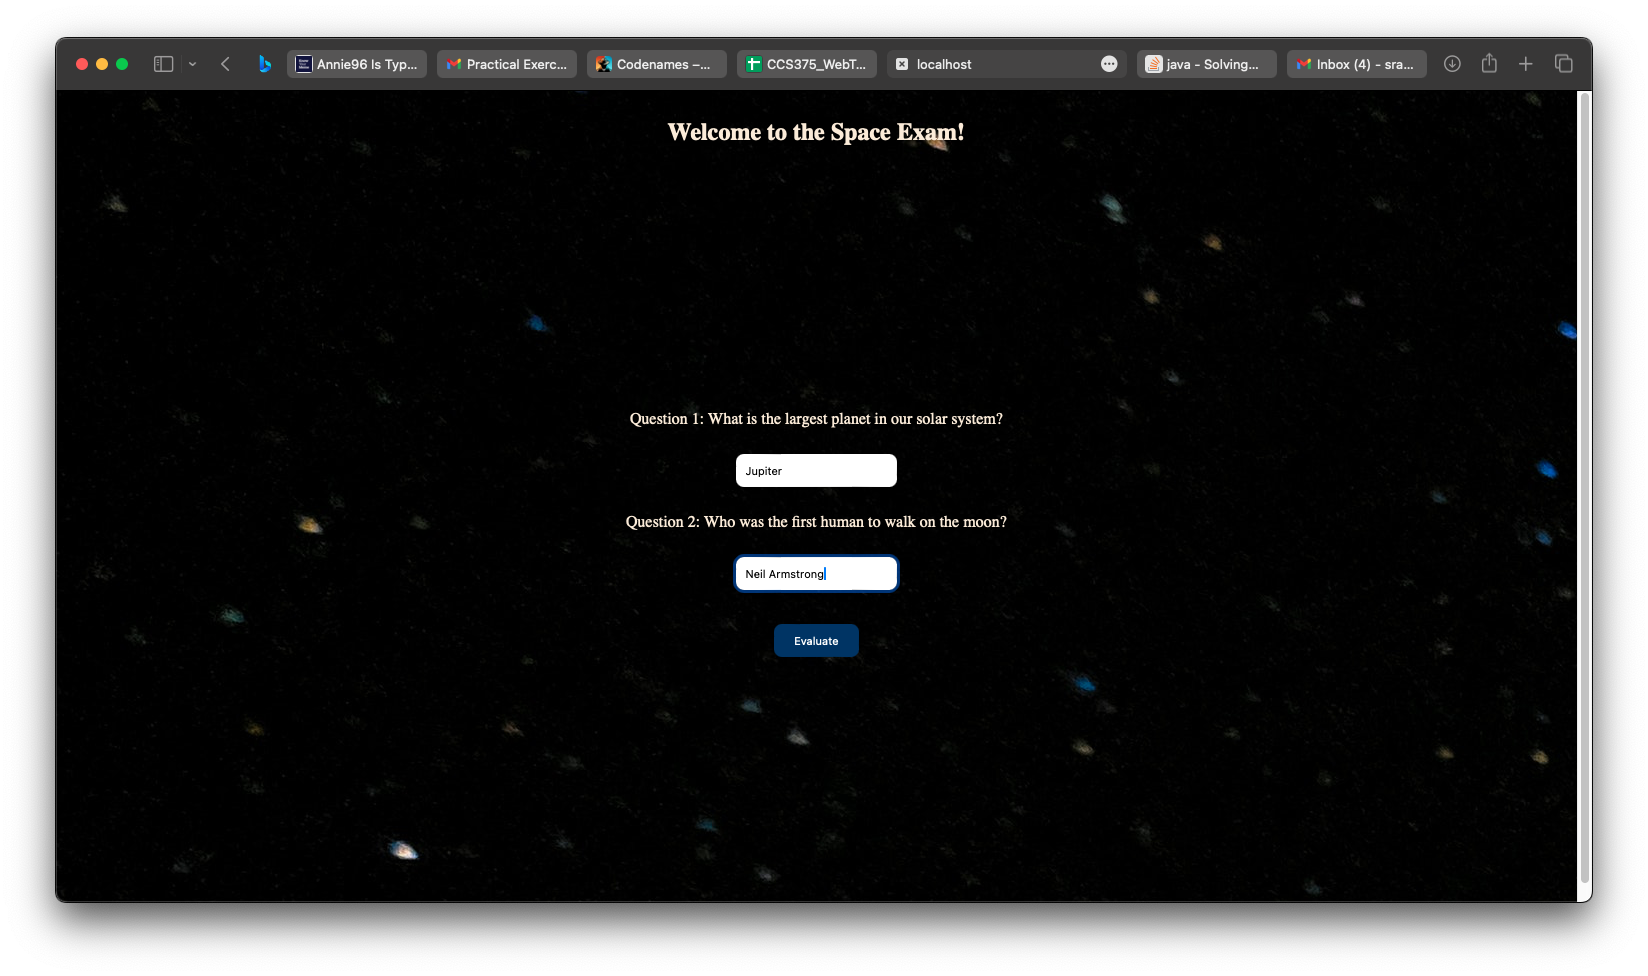
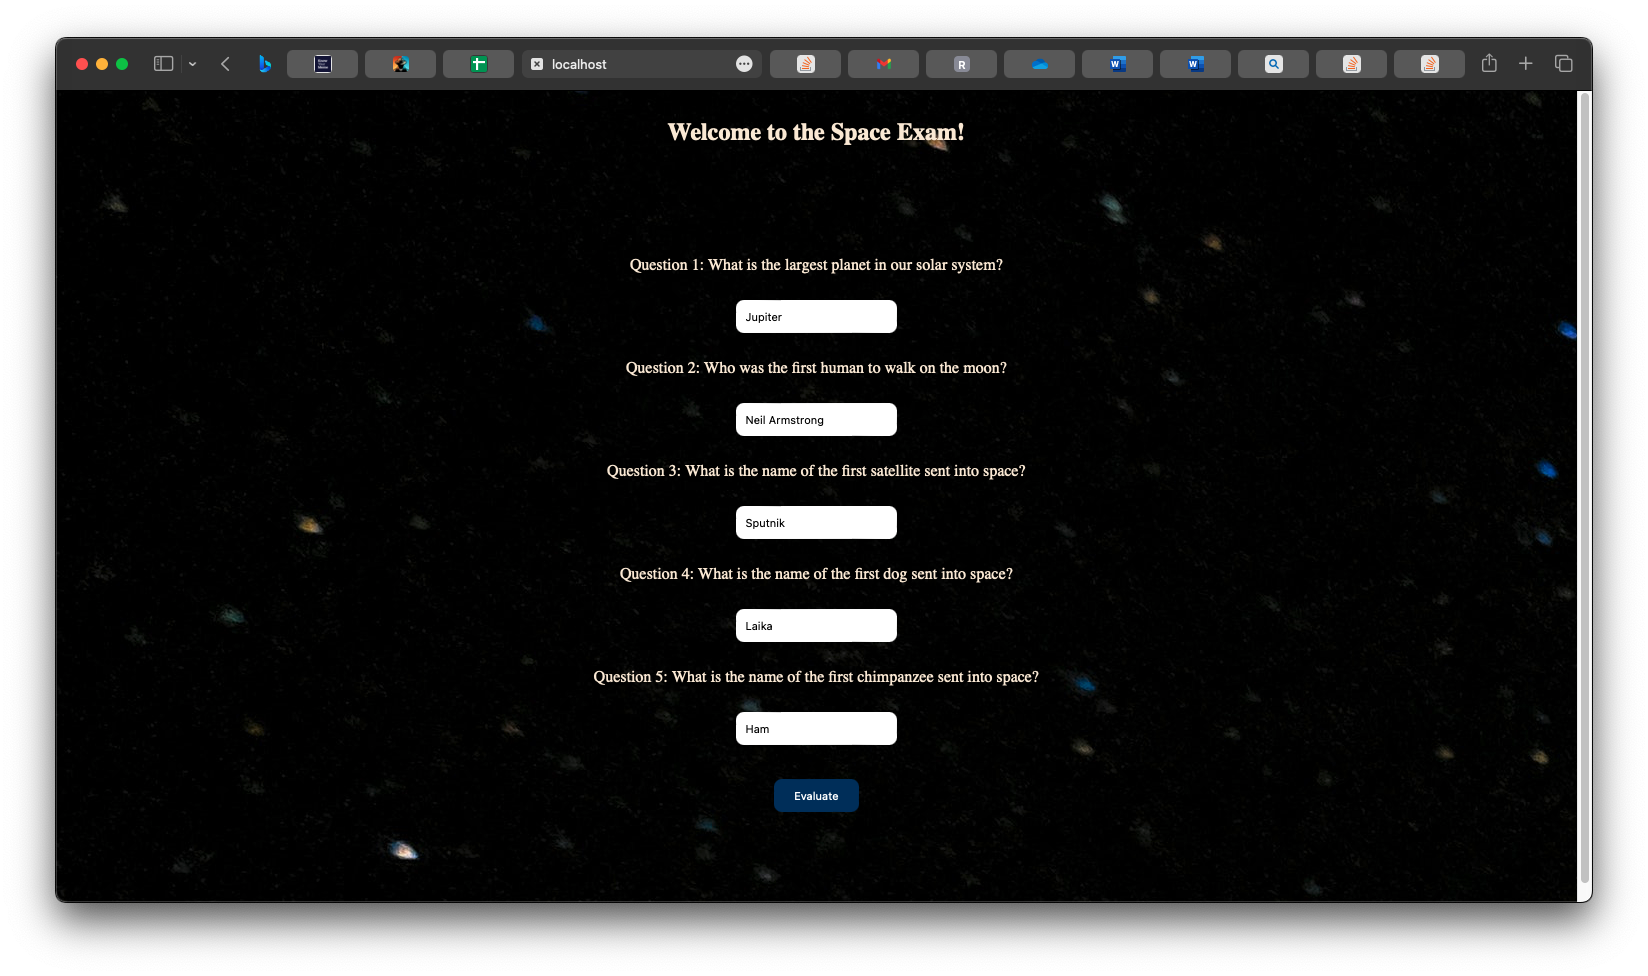
added questions exam evaluation

diff --git a/Ex-9/WEB-INF/classes/EvaluationExam.java b/Ex-9/WEB-INF/classes/EvaluationExam.java
@@ -6,16 +6,31 @@ public class EvaluationExam extends HttpServlet {
     protected void doPost(HttpServletRequest request, HttpServletResponse response) throws ServletException, IOException {
         String answer1 = request.getParameter("answer1");
         String answer2 = request.getParameter("answer2");
+        String answer3 = request.getParameter("answer3");
+        String answer4 = request.getParameter("answer4");
+        String answer5 = request.getParameter("answer5");
 
         String correctAnswer1 = "Jupiter";
         String correctAnswer2 = "Neil Armstrong";
+        String correctAnswer3 = "Sputnik";
+        String correctAnswer4 = "Laika";
+        String correctAnswer5 = "Ham";
 
         int score = 0;
-        if (answer1.equalsIgnoreCase(correctAnswer1)) {
-            score += 50;
+        if(answer1.equals(correctAnswer1)) {
+            score+=20;
         }
-        if (answer2.equalsIgnoreCase(correctAnswer2)) {
-            score += 50;
+        if(answer2.equals(correctAnswer2)) {
+            score+=20;
+        }
+        if(answer3.equals(correctAnswer3)) {
+            score+=20;
+        }
+        if(answer4.equals(correctAnswer4)) {
+            score+=20;
+        }
+        if(answer5.equals(correctAnswer5)) {
+            score+=20;
         }
 
         // Store the score in the session for display

diff --git a/Ex-9/WEB-INF/classes/AccessExam.java b/Ex-9/WEB-INF/classes/AccessExam.java
@@ -20,6 +20,12 @@ public class AccessExam extends HttpServlet {
             out.println("<input type='text' name='answer1'>");
             out.println("Question 2: Who was the first human to walk on the moon?");
             out.println("<input type='text' name='answer2'>");
+            out.println("Question 3: What is the name of the first satellite sent into space?");
+            out.println("<input type='text' name='answer3'>");
+            out.println("Question 4: What is the name of the first dog sent into space?");
+            out.println("<input type='text' name='answer4'>");
+            out.println("Question 5: What is the name of the first chimpanzee sent into space?");
+            out.println("<input type='text' name='answer5'>");
             out.println("<input type='submit' value='Evaluate'>");
             out.println("</form>");
             out.println("</body></html>");

diff --git a/Sample.md b/Sample.md
@@ -961,6 +961,12 @@ public class AccessExam extends HttpServlet {
             out.println("<input type='text' name='answer1'>");
             out.println("Question 2: Who was the first human to walk on the moon?");
             out.println("<input type='text' name='answer2'>");
+            out.println("Question 3: What is the name of the first satellite sent into space?");
+            out.println("<input type='text' name='answer3'>");
+            out.println("Question 4: What is the name of the first dog sent into space?");
+            out.println("<input type='text' name='answer4'>");
+            out.println("Question 5: What is the name of the first chimpanzee sent into space?");
+            out.println("<input type='text' name='answer5'>");
             out.println("<input type='submit' value='Evaluate'>");
             out.println("</form>");
             out.println("</body></html>");
@@ -978,21 +984,38 @@ public class EvaluationExam extends HttpServlet {
     protected void doPost(HttpServletRequest request, HttpServletResponse response) throws ServletException, IOException {
         String answer1 = request.getParameter("answer1");
         String answer2 = request.getParameter("answer2");
+        String answer3 = request.getParameter("answer3");
+        String answer4 = request.getParameter("answer4");
+        String answer5 = request.getParameter("answer5");
 
         String correctAnswer1 = "Jupiter";
         String correctAnswer2 = "Neil Armstrong";
+        String correctAnswer3 = "Sputnik";
+        String correctAnswer4 = "Laika";
+        String correctAnswer5 = "Ham";
 
         int score = 0;
-        if (answer1.equalsIgnoreCase(correctAnswer1)) {
-            score += 50;
+        if(answer1.equals(correctAnswer1)) {
+            score+=20;
         }
-        if (answer2.equalsIgnoreCase(correctAnswer2)) {
-            score += 50;
+        if(answer2.equals(correctAnswer2)) {
+            score+=20;
+        }
+        if(answer3.equals(correctAnswer3)) {
+            score+=20;
+        }
+        if(answer4.equals(correctAnswer4)) {
+            score+=20;
+        }
+        if(answer5.equals(correctAnswer5)) {
+            score+=20;
         }
 
+        // Store the score in the session for display
         HttpSession session = request.getSession();
         session.setAttribute("score", score);
 
+        // Display the score
         response.setContentType("text/html");
         PrintWriter out = response.getWriter();
         out.println("<html><head>");
